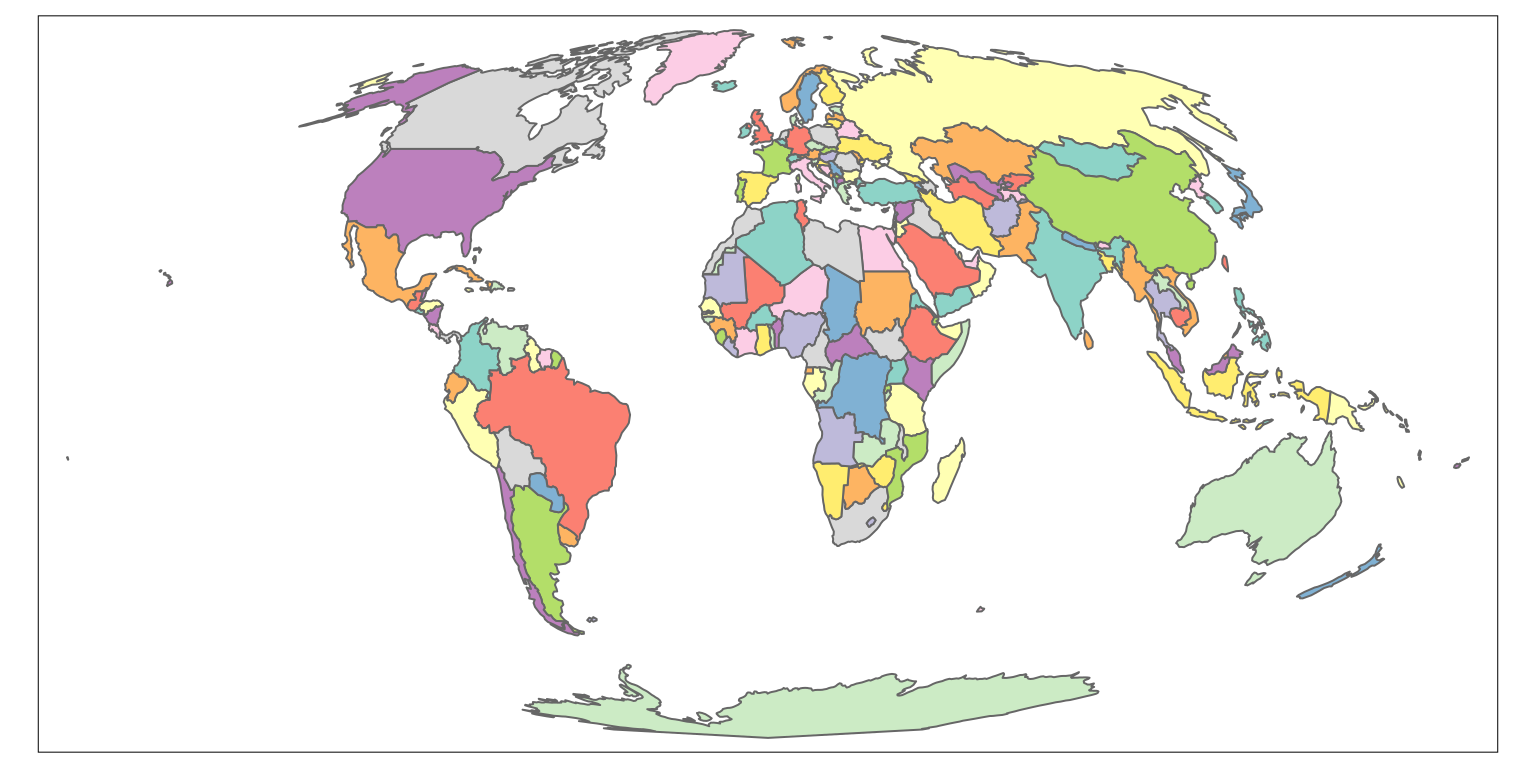
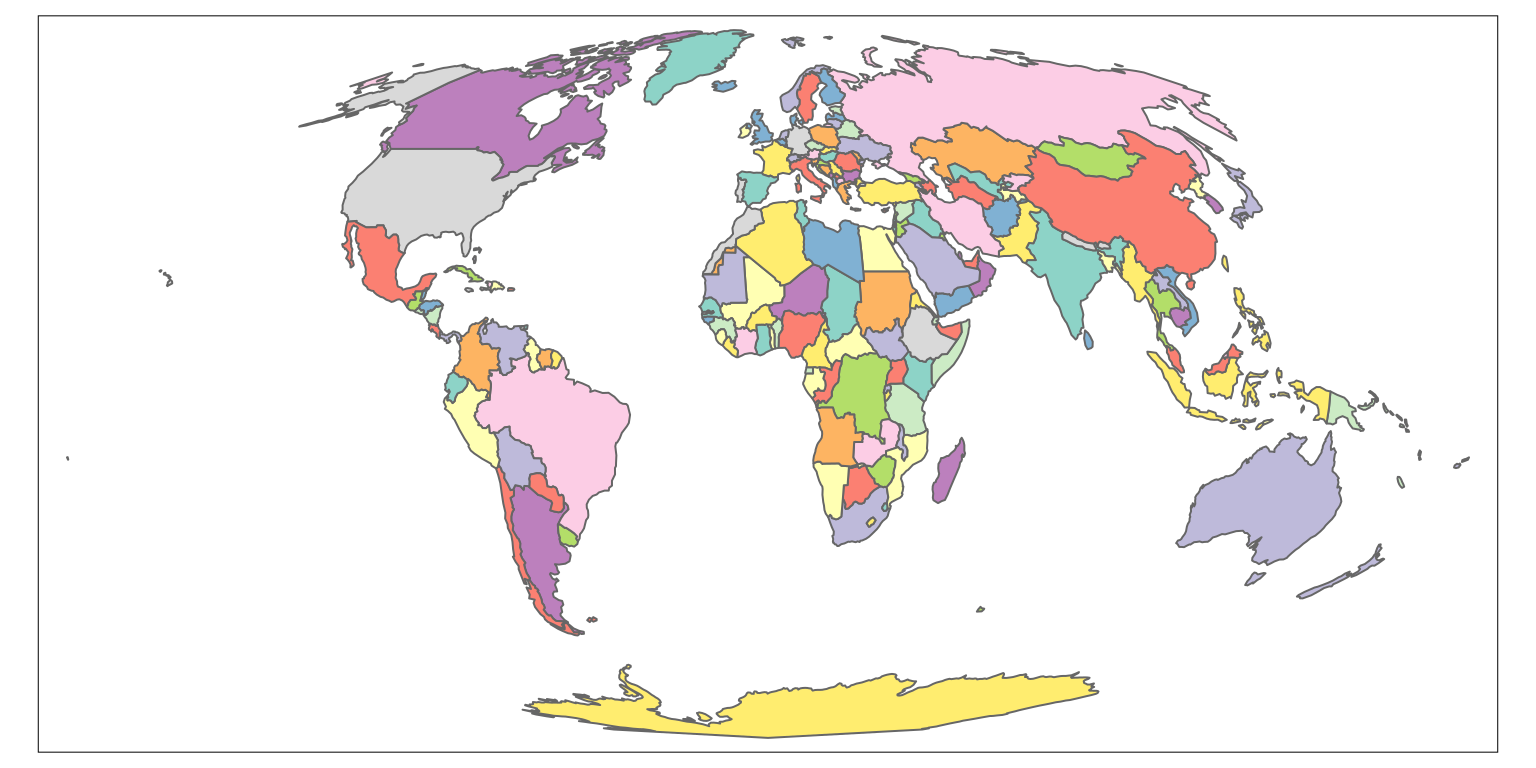
Deploy commit: Update blog 1da3f61c97af849c78f14d2a73bd2c9a6dd91f5c

diff --git a/post/2020/mapping-covid-19/index.html b/post/2020/mapping-covid-19/index.html
@@ -282,6 +282,13 @@ class(w)</code></pre>
 <pre class="r"><code>nrow(w)</code></pre>
 <pre><code>## [1] 14919</code></pre>
 </div>
+<div id="calculating-area" class="section level1">
+<h1>Calculating area</h1>
+<p>The package <code>sf</code> provides a wide range of functions for calculating geographic variables such as object centroid, bounding boxes, lengths and, as demonstrated below, area.
+We use this area data to calculate the population density of each country as follows:</p>
+<pre class="r"><code>w$Area_km = as.numeric(st_area(w)) / 1e6
+w$`Pop/km2` = as.numeric(w$POP_EST) / w$Area_km </code></pre>
+</div>
 <div id="plotting-international-covid-19-data-for-a-single-day" class="section level1">
 <h1>Plotting international Covid-19 data for a single day</h1>
 <p>The class of <code>w</code> shows that it has geometries for each row.
@@ -289,27 +296,40 @@ Notice that it has many more rows of data than the original world object: geomet
 This is not an efficient way to store data, as it means lots of duplicate geometries.
 On a small dataset that doesn’t matter, but it’s something to be aware of.
 To check that the join has worked, we will take a subset of rows representing the global situation yesterday relative to the date of data access:</p>
-<pre class="r"><code>w_yesterday = w[w$date == (max(w$date, na.rm = T) - 1), ]
+<pre class="r"><code>w_yesterday = w %&gt;% 
+  filter(date == max(date, na.rm = T) - 1)
 plot(w_yesterday)</code></pre>
-<p><img src="/post/2020/r-spatial-demo-covid-19_files/figure-html/unnamed-chunk-13-1.png" width="768" /></p>
-<pre class="r"><code>plot(w_yesterday[&quot;deaths&quot;])</code></pre>
 <p><img src="/post/2020/r-spatial-demo-covid-19_files/figure-html/unnamed-chunk-14-1.png" width="768" /></p>
+<p>The plot method for <code>sf</code> objects is fast and flexible, as documented in <a href="https://r-spatial.github.io/sf/articles/sf5.html"><code>sf</code>’s <em>Plotting Simple Features</em> vignette</a>, which can be accessed with <code>vignette("sf5")</code> from the R console.
+We can set the breaks to better show the difference between countries with no reported deaths and countries with few reported deaths as follows:</p>
+<pre class="r"><code>plot(w_yesterday[&quot;deaths&quot;])</code></pre>
+<p><img src="/post/2020/r-spatial-demo-covid-19_files/figure-html/unnamed-chunk-15-1.png" width="768" /></p>
 <pre class="r"><code>b = c(0, 10, 100, 1000, 10000, 100000)
 plot(w_yesterday[&quot;deaths&quot;], breaks = b)</code></pre>
-<p><img src="/post/2020/r-spatial-demo-covid-19_files/figure-html/unnamed-chunk-14-2.png" width="768" /></p>
+<p><img src="/post/2020/r-spatial-demo-covid-19_files/figure-html/unnamed-chunk-15-2.png" width="768" /></p>
+<p>To plot the other Covid-19 variables, reporting number of confirmed cases, number of tests and number of people who have recovered, we can subset the relevant variables and pipe the result to the <code>plot()</code> function (noting the <a href="https://t.co/NyIrKHQSUy">caveat</a> that code containing pipes may be hard to debug) as follows:</p>
 <pre class="r"><code>w_yesterday %&gt;%
   dplyr::select(deaths, confirmed, tests, recovered) %&gt;% 
   plot()</code></pre>
-<p><img src="/post/2020/r-spatial-demo-covid-19_files/figure-html/unnamed-chunk-14-3.png" width="768" /></p>
-<pre class="r"><code># w_yesterday %&gt;% filter(ISO_A2 == &quot;US&quot;) # check data for us</code></pre>
+<p><img src="/post/2020/r-spatial-demo-covid-19_files/figure-html/unnamed-chunk-16-1.png" width="768" /></p>
+</div>
+<div id="making-maps-with-tmap" class="section level1">
+<h1>Making maps with tmap</h1>
+<p>The <a href="https://geocompr.robinlovelace.net/adv-map.html">mapping chapter</a> of <em>Geocomputation with R</em> shows how the <code>tmap</code> package enables publication-quality maps to be created with concise and relatively commands, such as:</p>
 <pre class="r"><code>tm_shape(w_yesterday) +
   tm_polygons(c(&quot;deaths&quot;, &quot;recovered&quot;))</code></pre>
-<p><img src="/post/2020/r-spatial-demo-covid-19_files/figure-html/unnamed-chunk-15-1.png" width="768" /></p>
+<p><img src="/post/2020/r-spatial-demo-covid-19_files/figure-html/unnamed-chunk-17-1.png" width="768" /></p>
+<p>We can modify the palette and scale as follows:</p>
 <pre class="r"><code>tm_shape(w_yesterday) +
-  tm_polygons(c(&quot;deaths&quot;, &quot;recovered&quot;), 
-              palette = &quot;viridis&quot;, style = &quot;log10_pretty&quot;) </code></pre>
-<p><img src="/post/2020/r-spatial-demo-covid-19_files/figure-html/unnamed-chunk-16-1.png" width="768" /></p>
+  tm_polygons(
+    c(&quot;deaths&quot;, &quot;recovered&quot;),
+    palette = &quot;viridis&quot;,
+    style = &quot;log10_pretty&quot;
+    ) </code></pre>
+<p><img src="/post/2020/r-spatial-demo-covid-19_files/figure-html/unnamed-chunk-18-1.png" width="768" /></p>
+<p>The map can be further improved by adding graticules representing the curvature of the Earth, created as follows:</p>
 <pre class="r"><code>g = st_graticule(w_yesterday)</code></pre>
+<p>It’s also worth moving the legend:</p>
 <pre class="r"><code>tm_shape(g) +
   tm_lines(col = &quot;grey&quot;) +
   tm_shape(w_yesterday) +
@@ -319,67 +339,102 @@ plot(w_yesterday[&quot;deaths&quot;], breaks = b)</code></pre>
     style = &quot;log10_pretty&quot;
     ) +
   tm_layout(legend.position = c(0.01, 0.25))</code></pre>
-<p><img src="/post/2020/r-spatial-demo-covid-19_files/figure-html/unnamed-chunk-18-1.png" width="768" /></p>
+<p><img src="/post/2020/r-spatial-demo-covid-19_files/figure-html/unnamed-chunk-20-1.png" width="768" /></p>
+<p>A problem with choropleth maps is that they can under-represent small areas.
+To overcome this issue we can use dot size instead of color to represent number:</p>
 <pre class="r"><code>tm_shape(g) +
   tm_lines(col = &quot;grey&quot;) +
   tm_shape(w_yesterday) +
-  tm_polygons(
-    c(&quot;deaths&quot;, &quot;recovered&quot;),
-    palette = &quot;viridis&quot;,
-    style = &quot;log10_pretty&quot;
-    ) +
-  tm_layout(legend.position = c(0.01, 0.25)) +
+  tm_polygons() +
+  tm_layout(legend.position = c(0.01, 0)) +
   tm_shape(w_yesterday) +
-  tm_dots(size = c(&quot;deaths&quot;, &quot;recovered&quot;), col = c(&quot;red&quot;, &quot;green&quot;))</code></pre>
-<p><img src="/post/2020/r-spatial-demo-covid-19_files/figure-html/unnamed-chunk-19-1.png" width="768" /></p>
+  tm_dots(
+    col = c(&quot;red&quot;, &quot;green&quot;),
+    size = c(&quot;deaths&quot;, &quot;recovered&quot;),
+    palette = &quot;viridis&quot;
+    )</code></pre>
+<p><img src="/post/2020/r-spatial-demo-covid-19_files/figure-html/unnamed-chunk-21-1.png" width="768" /></p>
+<p>One question I have here: make the size legend have <code>style = "log10_pretty"</code> also?</p>
+</div>
+<div id="making-animated-maps" class="section level1">
+<h1>Making animated maps</h1>
+<p>The animation at the beginning of this article shows how dynamic graphics can communicate change effectively.
+Animated maps are therefore useful for showing evolving geographic phenomena, such as the spread of Covid-19 worldwide.
+As covered in section <a href="https://geocompr.robinlovelace.net/adv-map.html#animated-maps">8.3</a> of <em>Geocomputation with R</em>, animated maps can be created with <code>tmap</code> by extending the <code>tm_facet()</code> functionality.
+So let’s start by creating a facetted map showing the total number of deaths on the first day of each month in our data:</p>
 <pre class="r"><code>w$Date = as.character(w$date)
 tm_shape(g) +
   tm_lines(col = &quot;grey&quot;) +
   tm_shape(w_yesterday) +
   tm_polygons(
-    c(&quot;deaths&quot;, &quot;recovered&quot;),
+    &quot;Pop/km2&quot;,
     palette = &quot;viridis&quot;,
-    style = &quot;log10_pretty&quot;
+    style = &quot;log10_pretty&quot;,
+    n = 3
     ) +
-  tm_shape(w %&gt;% filter(date &gt; Sys.Date() - 4)) +
-  tm_dots(size = c(&quot;deaths&quot;), col = c(&quot;red&quot;)) +
-  tm_facets(&quot;Date&quot;)</code></pre>
+  tm_shape(w %&gt;% filter(grepl(pattern = &quot;01$&quot;, date))) +
+  tm_dots(size = &quot;deaths&quot;, col = &quot;red&quot;) +
+  tm_facets(&quot;Date&quot;, nrow = 1, free.scales.fill = FALSE) +
+  tm_layout(
+    legend.outside.position = &quot;bottom&quot;,
+    legend.stack = &quot;horizontal&quot;
+    )</code></pre>
+<p><img src="/post/2020/r-spatial-demo-covid-19_files/figure-html/unnamed-chunk-22-1.png" width="768" /></p>
 <p>To create an animated map, following instructions in Chapter <a href="https://geocompr.robinlovelace.net/adv-map.html#animated-maps">8</a> of <em>Geocomputation with R</em>, we need to make some small changes to the code above:</p>
 <pre class="r"><code>m = tm_shape(g) +
   tm_lines(col = &quot;grey&quot;) +
   tm_shape(w_yesterday) +
   tm_polygons(
-    c(&quot;deaths&quot;, &quot;recovered&quot;),
+    &quot;Pop/km2&quot;,
     palette = &quot;viridis&quot;,
-    style = &quot;log10_pretty&quot;
+    style = &quot;log10_pretty&quot;,
+    n = 3
     ) +
-  tm_shape(w %&gt;% filter(date &gt; Sys.Date() - 4)) +
-  tm_dots(size = c(&quot;deaths&quot;), col = c(&quot;red&quot;)) +
+  tm_shape(w %&gt;% filter(grepl(pattern = &quot;01$&quot;, date))) +
+  tm_dots(size = &quot;deaths&quot;, col = &quot;red&quot;) +
   tm_facets(along = &quot;Date&quot;, free.coords = FALSE) +
-  tm_layout(legend.position = c(0.01, 0.25))
+  tm_layout(legend.outside = TRUE)
 tmap_animation(m, &quot;covid-19-animated-map-test.gif&quot;, width = 800)
 browseURL(&quot;covid-19-animated-map-test.gif&quot;)</code></pre>
-<p>Not bad, but would benefit from a few adjustments before we plot the results of the whole dataset:</p>
-<pre class="r"><code>world_projected$Area_km = as.numeric(st_area(world_projected)) / 1e6
-world_projected$`Pop/km2` = as.numeric(world_projected$POP_EST) / world_projected$Area_km 
+<p><img src="https://user-images.githubusercontent.com/1825120/80087377-e7bda780-8552-11ea-959f-55b154c715fa.gif" width="40%" /></p>
+<p>We made an animated map!
+The first version is rarely the best though, and the map above clearly could benefit from some adjustments before we plot the results for the whole dataset:</p>
+<pre class="r"><code>w$Date = paste0(&quot;Total deaths from 22nd January 2020 to &quot;, w$date)
 
 m = tm_shape(g) +
   tm_lines(col = &quot;grey&quot;) +
-  tm_shape(world_projected) +
+  tm_shape(w) +
   tm_polygons(
     &quot;Pop/km2&quot;,
     palette = &quot;viridis&quot;,
     style = &quot;log10_pretty&quot;,
     lwd = 0.5
     ) +
-  tm_shape(w %&gt;% filter(date &gt; Sys.Date() - 60)) +
-  tm_dots(size = c(&quot;deaths&quot;), col = c(&quot;red&quot;)) +
+  tm_shape(w) +
+  tm_dots(size = &quot;deaths&quot;, col = &quot;red&quot;) +
   tm_facets(along = &quot;Date&quot;, free.coords = FALSE) +
-  tm_layout(legend.outside = TRUE)
-tmap_animation(m, &quot;covid-19-animated-map.gif&quot;, width = 1200, height = 800)
+  tm_layout(
+    main.title.size = 0.5,
+    legend.outside = TRUE
+    )
+m
+tmap_animation(m, &quot;covid-19-animated-map.gif&quot;, width = 1400, height = 600)
 browseURL(&quot;covid-19-animated-map.gif&quot;)</code></pre>
 <!--update the file below-->
 <p><img src="https://user-images.githubusercontent.com/1825120/79768034-1e60ab80-8322-11ea-9c99-9997b588ee57.gif" /></p>
+</div>
+<div id="conclusion" class="section level1">
+<h1>Conclusion</h1>
+<p>This article has demonstrated how to work with and map geographic data using the free and open source statistical programming language R.
+It demonstrates that by representing analysis in code, research can be made reproducible and more accessible to others, encouraging transparent and open science.
+This has multiple advantages, from education and citizen engagement with the evidence to increased trust in the evidence on which important, life-or-death, decisions are made.</p>
+<p>Although the research did not address any policy issues, it could be extended to do so, and we encourage readers to check-out the following resources for ideas for future research:</p>
+<ul>
+<li>A <a href="https://github.com/paezha/covid19-environmental-correlates#a-spatio-temporal-analysis-of-the-environmental-correlates-of-covid-19-incidence-in-spain">reproducible geographic analysis</a> of Covid-19 data in Spain by <a href="https://www.science.mcmaster.ca/geo/component/comprofiler/userprofile/paezha.html">Antonio Paez</a> and others (challenge: reproduce their findings)</li>
+<li>The eRum2020 <a href="https://2020.erum.io/covidr-contest/">CovidR competition</a> (challenge: enter the contest!)</li>
+</ul>
+<p>For further details on geographic data analysis in R in general, we recommend checkout out in-depth materials such as <a href="https://www.amazon.co.uk/Geocomputation-Chapman-Hall-Robin-Lovelace/dp/1138304514"><em>Geocomputation with R</em></a> and the in-progress open source book <a href="https://keen-swartz-3146c4.netlify.app/"><em>Spatial Data Science</em></a>.</p>
+<p>There is also an <a href="https://www.youtube.com/watch?v=Va0STgco7-4">online talk</a> on the subject on YouTube.</p>
 <details>
 <p><summary>Session info</summary></p>
 <pre class="r"><code>devtools::session_info()</code></pre>
